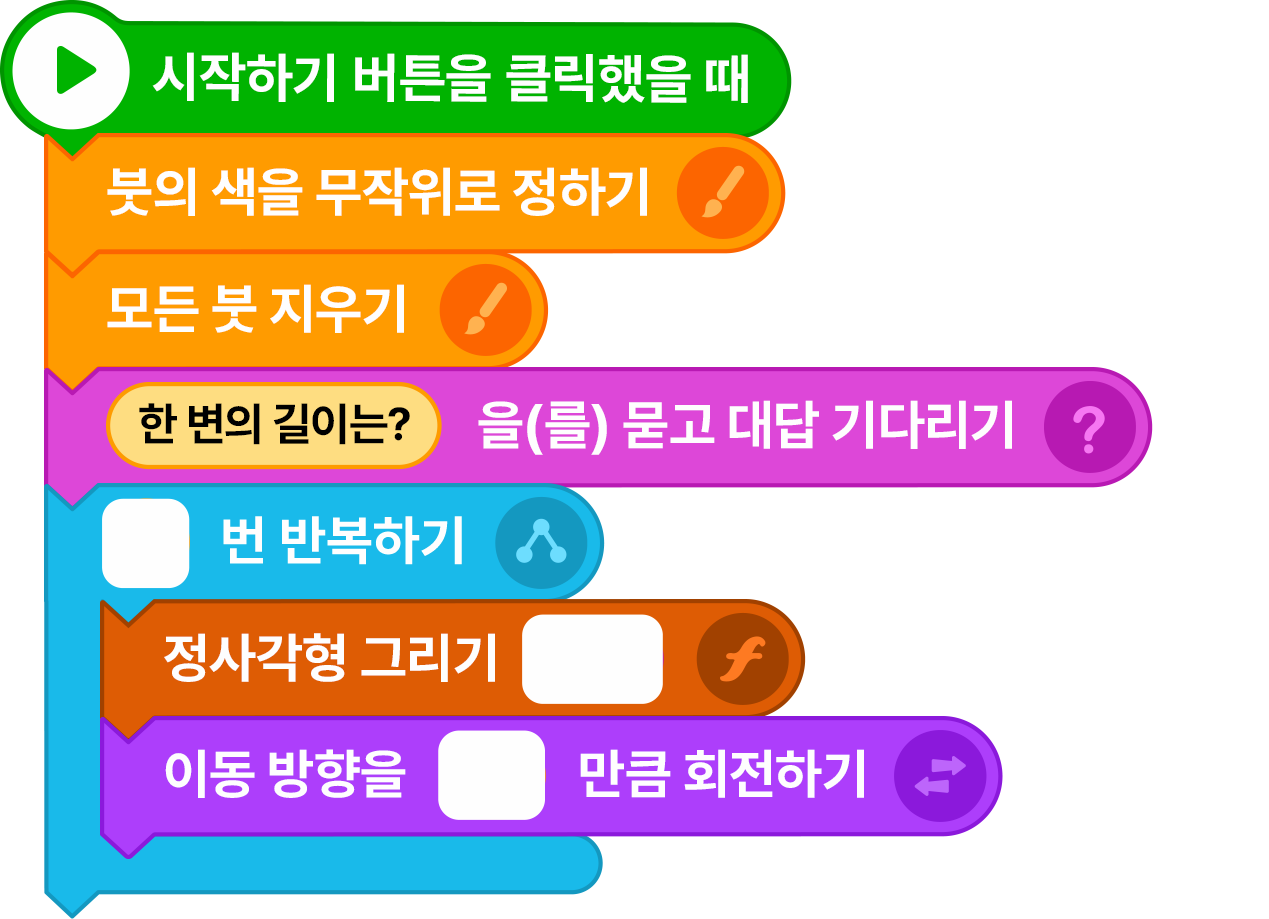
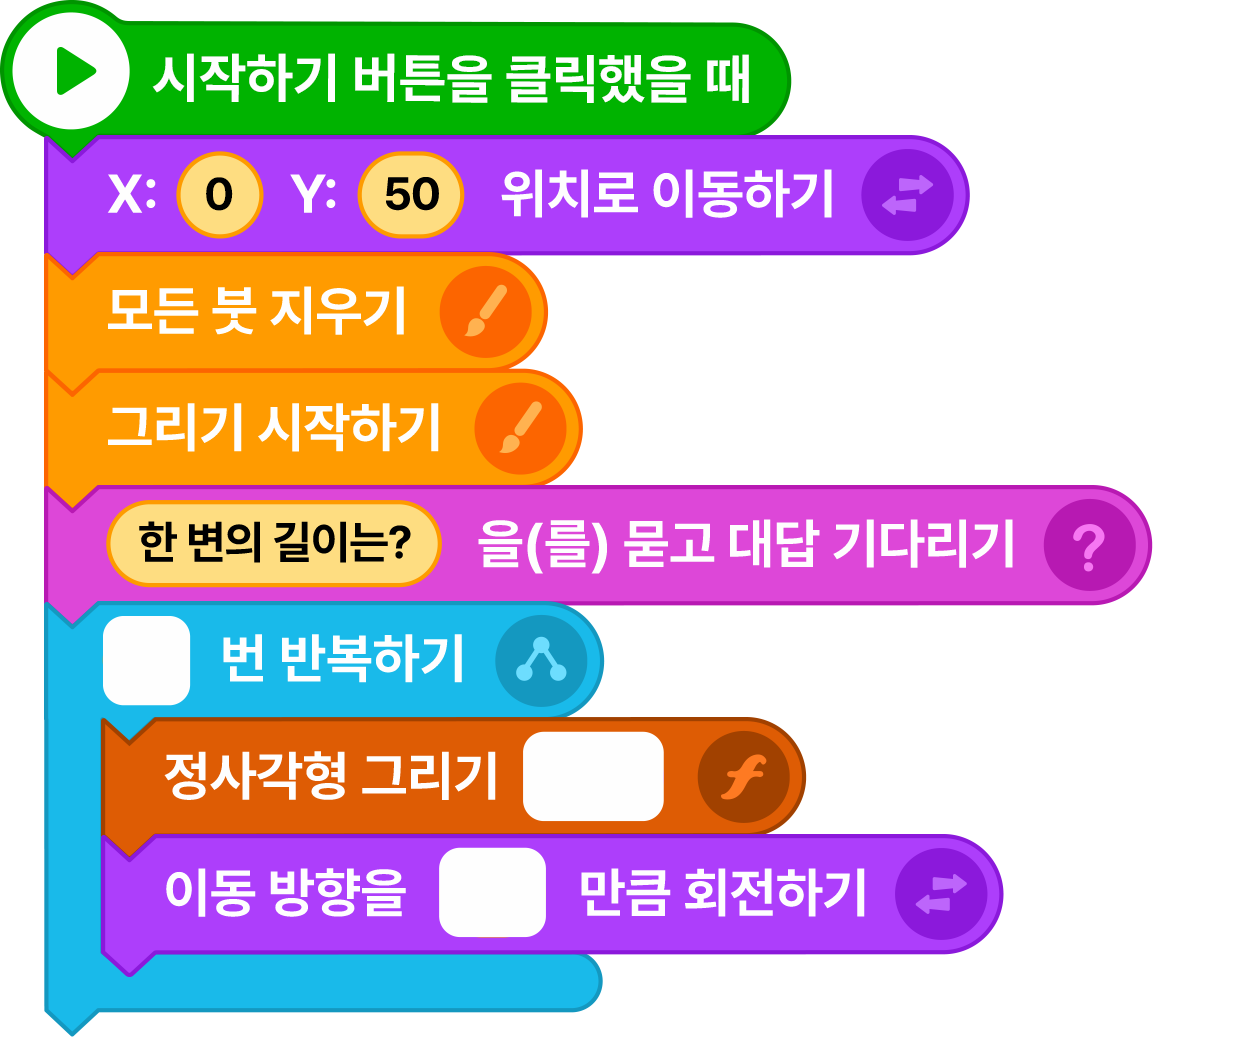
v1.1 이미지 수정

diff --git a/mid_325_01.html b/mid_325_01.html
@@ -36,9 +36,9 @@
             <h2 class="cm_title_02" tabindex="0"><span class="cm_num">2</span>알고리즘 설계</h2>
             <div class="cm_txt_in">
                 <ul class="cm_list_num">
-                    <li tabindex="0"><span>①</span>함수 정의하기 블록에서 함수 이름을 ‘정사각형 그리기‘라고 입력한다.</li>
-                    <li tabindex="0"><span>②</span>이동 방향을 90° 만큼 회전하기를 4번 반복하여 한 변의 길이가 90인 정사각형을 그리도록 작성하고, 함수를 저장한다.</li>
-                    <li tabindex="0"><span>③</span>연필을 클릭하면 연필 오브젝트의 방향을 45° 만큼 회전하며 ‘정사각형 그리기’ 함수를 3번 호출한다.</li>
+                    <li tabindex="0"><span>①</span>함수 정의하기 블록에서 함수 이름을 ‘사각형 그리기‘라고 입력한다.</li>
+                    <li tabindex="0"><span>②</span>이동 방향으로 90 만큼 이동하고, 방향을 90° 만큼 회전하기를 4번 반복하여 사각형을 그리도록 작성하고, 함수를 저장한다.</li>
+                    <li tabindex="0"><span>③</span>연필 오브젝트를 클릭하면 ‘사각형 그리기’ 함수를 호출하고, 이동 방향을 45° 만큼 회전하기를 3번 호출한다.</li>
                 </ul>
             </div>
           </div>
@@ -61,7 +61,7 @@
                     </tr>
                     <tr>
                         <th tabindex="0">함수</th>
-                        <td tabindex="0">정사각형 그리기</td>
+                        <td tabindex="0">사각형 그리기</td>
                     </tr>
                 </table>
             </div>
@@ -76,20 +76,20 @@
                     </colgroup>
                     <tr>
                         <th tabindex="0">
-                            <img src="img/object_square.svg" alt="'정사각형 그리기' 함수 블록">
+                            <img src="img/object_square.svg" alt="사각형 그리기' 함수 블록">
                             <div class="cm_pd_t5">함수 정의하기</div>
                         </th>
                         <td tabindex="0">
                             <div class="cm_img_warp">
-                                <img src="img/img_325_01_01.svg" alt="정사각형을 그리도록 조립된 블록을 함수로 정의한 빈칸이 포함된 엔트리 코드" class="cm_w83">
+                                <img src="img/img_325_01_01.svg" alt="사각형을 그리도록 조립된 블록을 함수로 정의한 빈칸이 포함된 엔트리 코드" class="cm_w83">
                             </div>
                         </td>
                     </tr>
                     <tr>
-                        <th tabindex="0"><img src="img/object_pencil.svg" alt="연필(2) 오브젝트" class="cm_h65"></th>
+                        <th tabindex="0"><img src="img/object_pencil.svg" alt="연필(2) 오브젝트" class="cm_h80"></th>
                         <td tabindex="0">
                             <div class="cm_img_warp">
-                                <img src="img/img_325_01_02.png" alt="오브젝트를 클릭했을 때, 모든 붓 지우기를 실행하고 '정사각형 그리기' 함수를 반복해서 호출하는 빈칸이 포함된 엔트리 코드" class="cm_w83">
+                                <img src="img/img_325_01_02.png" alt="오브젝트를 클릭했을 때, 모든 붓 지우기를 실행하고 '사각형 그리기' 함수를 반복해서 호출하는 빈칸이 포함된 엔트리 코드" class="cm_w83">
                             </div>
                         </td>
                     </tr>

diff --git a/mid_325_02.html b/mid_325_02.html
@@ -38,9 +38,8 @@
             <div class="cm_txt_in">
                 <ul class="cm_list_num">
                     <li tabindex="0"><span>①</span>함수 정의하기 블록에서 함수의 이름을 ‘사각형 그리기‘라고 입력하고, 매개 변수를 추가한다.</li>
-                    <li tabindex="0"><span>②</span>이동 방향을 90° 만큼 회전하기를 4번 반복하여 한 변의 길이가 매개 변수값 만큼인 사각형을 그리도록 작성하고, 함수를 저장한다.</li>
-                    <li tabindex="0"><span>③</span>연필을 클릭하면 연필 오브젝트의 방향을 45° 만큼 회전하며 ‘사각형 그리기’ 함수를 3번 호출한다.</li>
-                    <li tabindex="0"><span>④</span>연필을 클릭할 때마다 사각형 그림이 이어서 그려지도록 모든 붓 지우기는 프로그램을 시작했을 때 한 번만 실행한다.</li>
+                    <li tabindex="0"><span>②</span>이동 방향으로 매개 변숫값 만큼 이동하고, 방향을 90° 만큼 회전하기를 4번 반복하여 사각형을 그리도록 작성하고, 함수를 저장한다.</li>
+                    <li tabindex="0"><span>③</span>연필 오브젝트를 클릭하면 한 변의 길이를 입력받고, '사각형 그리기' 함수와 오브젝트의 이동 방향을 45° 만큼 회전하기를 3번 반복하여 호출한다.</li>
                 </ul>
             </div>
           </div>
@@ -76,19 +75,15 @@
                         </colgroup>
                     <tr>
                         <th tabindex="0">
-                            <img src="img/object_square_2.svg" alt="'정사각형 그리기' 함수 블록">
+                            <img src="img/object_square_2.svg" alt="'사각형 그리기' 함수 블록">
                             <div class="cm_pd_t5">함수 정의하기</div>
                         </th>
-                        <td tabindex="0"><img src="img/img_325_02_01.svg" alt="정사각형을 그리도록 조립된 블록을 매개 변수가 있는 함수로 정의한 빈칸이 포함된 엔트리 코드" class="cm_w83"></td>
+                        <td tabindex="0"><img src="img/img_325_02_01.svg" alt="사각형을 그리도록 조립된 블록을 매개 변수가 있는 함수로 정의한 빈칸이 포함된 엔트리 코드" class="cm_w83"></td>
                     </tr>
                     <tr>
                         <th tabindex="0"><img src="img/object_pencil.svg" alt="연필(2) 오브젝트" class="cm_h65"></th>
                         <td class="cm_img_block" tabindex="0">
-                            <div class="cm_img_warp">
-                                <img src="img/img_325_02_02.png" alt="오브젝트를 클릭했을 때, 한 변의 길이를 입력받아 대답을 '정사각형 그리기' 함수에 매개 변수로 넘겨주고 반복해서 호출하는 빈칸이 포함된 엔트리 코드" class="cm_w83">
-                                <img src="img/img_325_02_03.png" alt="시작하기 버튼을 클릭했을 때, 모든 붓 지우기 블록을 조립한 엔트리 코드" class="cm_w83">
-                            </div>
-                            
+                            <img src="img/img_325_02_02.png" alt="오브젝트를 클릭했을 때, 한 변의 길이를 입력받아 대답을 '사각형 그리기' 함수에 매개 변수로 넘겨주고 반복해서 호출하는 빈칸이 포함된 엔트리 코드" class="cm_w83">
                         </td>
                     </tr>
                 </table>

diff --git a/mid_325_05_c.html b/mid_325_05_c.html
@@ -121,7 +121,7 @@
                     </colgroup>
                     <tr>
                       <th tabindex="0">오브젝트</th>
-                      <td tabindex="0"><img src="img/object_teacher.png" alt="선생님(3) 오브젝트" class="cm_h50"></td>
+                      <td tabindex="0"><img src="img/object_teacher.png" alt="선생님(3) 오브젝트" class="cm_h80"></td>
                     </tr>
                     <tr>
                         <th tabindex="0">변수</th>
@@ -132,16 +132,20 @@
                         <td tabindex="0">업다운</td>
                     </tr>
                     <tr>
-                        <th tabindex="0"><img src="img/object_updown.svg" alt="'업다운' 함수 블록" class="cm_h65">업다운</th>
-                        <td class="cm_img_block" tabindex="0">
-                            <img src="img/img_325_05_03_c.svg" alt="'업다운' 함수 정의하기 블록으로 숫자를 입력받고 입력받은 수가 정답과 같은지 비교하여 같으면 '정답입니다'를 출력하고 결괏값 1을 반환, 입력값이 정답보다 작으면 'UP', 크면 'Down' 메세지를 출력하고 결괏값으로 0을 반환하는 함수를 정의한 빈칸이 포함된 엔트리 코드">
+                        <th tabindex="0"><img src="img/object_updown.svg" alt="'업다운' 함수 블록"></th>
+                        <td tabindex="0">
+                            <div class="cm_img_warp">
+                                <img src="img/img_325_05_03_c.png" alt="'업다운' 함수 정의하기 블록으로 숫자를 입력받고 입력받은 수가 정답과 같은지 비교하여 같으면 '정답입니다'를 출력하고 결괏값 1을 반환, 입력값이 정답보다 작으면 'UP', 크면 'Down' 메세지를 출력하고 결괏값으로 0을 반환하는 함수를 정의한 빈칸이 포함된 엔트리 코드">
+                            </div>
                         </td>
                     </tr>
                     <tr>
                         <th tabindex="0">
-                            <img src="img/object_teacher.png" alt="선생님(3) 오브젝트">
+                            <img src="img/object_teacher.png" alt="선생님(3) 오브젝트" class="cm_h80">
                         </th>
-                        <td tabindex="0"><img src="img/img_325_05_02.svg" alt="시작하기 버튼을 클릭했을 때, 1부터 50사의 숫자 중에 하나를 정답값으로 정하고, 사용자로부터 숫자를 입력받아 정답 숫자를 맞출때 까지 반복하여 '업다운' 함수를 호출하여 정답을 맞추면 초시계 값을 출력하고 반복을 종료하는 엔트리 코드"></td>
+                        <td tabindex="0">
+                            <img src="img/img_325_05_02.svg" alt="시작하기 버튼을 클릭했을 때, 1부터 50사의 숫자 중에 하나를 정답값으로 정하고, 사용자로부터 숫자를 입력받아 정답 숫자를 맞출때 까지 반복하여 '업다운' 함수를 호출하여 정답을 맞추면 초시계 값을 출력하고 반복을 종료하는 엔트리 코드">
+                        </td>
                     </tr>
                 </table>
             </div>

diff --git a/mid_325_05_b.html b/mid_325_05_b.html
@@ -121,7 +121,7 @@
                     </colgroup>
                     <tr>
                       <th tabindex="0">오브젝트</th>
-                      <td tabindex="0"><img src="img/object_teacher.png" alt="선생님(3) 오브젝트" class="cm_h50"></td>
+                      <td tabindex="0"><img src="img/object_teacher.png" alt="선생님(3) 오브젝트" class="cm_h80"></td>
                     </tr>
                     <tr>
                         <th tabindex="0">변수</th>
@@ -132,14 +132,16 @@
                         <td tabindex="0">업다운</td>
                     </tr>
                     <tr>
-                        <th tabindex="0"><img src="img/object_updown.svg" alt="'업다운' 함수 블록" class="cm_h65">업다운</th>
-                        <td class="cm_img_block" tabindex="0">
-                            <img src="img/img_325_05_03_b.svg" alt="'업다운' 함수 정의하기 블록으로 숫자를 입력받고 입력받은 수가 정답과 같은지 비교하여 같으면 '정답입니다'를 출력하고 결괏값 1을 반환, 입력값이 정답보다 작으면 'UP', 크면 'Down' 메세지를 출력하고 결괏값으로 0을 반환하는 함수를 정의한 빈칸이 포함된 엔트리 코드">
+                        <th tabindex="0"><img src="img/object_updown.svg" alt="'업다운' 함수 블록"></th>
+                        <td tabindex="0">
+                            <div class="cm_img_warp">
+                                <img src="img/img_325_05_03_b.png" alt="'업다운' 함수 정의하기 블록으로 숫자를 입력받고 입력받은 수가 정답과 같은지 비교하여 같으면 '정답입니다'를 출력하고 결괏값 1을 반환, 입력값이 정답보다 작으면 'UP', 크면 'Down' 메세지를 출력하고 결괏값으로 0을 반환하는 함수를 정의한 빈칸이 포함된 엔트리 코드">
+                            </div>
                         </td>
                     </tr>
                     <tr>
                         <th tabindex="0">
-                            <img src="img/object_teacher.png" alt="선생님(3) 오브젝트">
+                            <img src="img/object_teacher.png" alt="선생님(3) 오브젝트" class="cm_h80">
                         </th>
                         <td tabindex="0"><img src="img/img_325_05_02.svg" alt="시작하기 버튼을 클릭했을 때, 1부터 50사의 숫자 중에 하나를 정답값으로 정하고, 사용자로부터 숫자를 입력받아 정답 숫자를 맞출때 까지 반복하여 '업다운' 함수를 호출하여 정답을 맞추면 초시계 값을 출력하고 반복을 종료하는 엔트리 코드"></td>
                     </tr>

diff --git a/mid_325_05_a.html b/mid_325_05_a.html
@@ -121,7 +121,7 @@
                     </colgroup>
                     <tr>
                       <th tabindex="0">오브젝트</th>
-                      <td tabindex="0"><img src="img/object_teacher.png" alt="선생님(3) 오브젝트" class="cm_h65"></td>
+                      <td tabindex="0"><img src="img/object_teacher.png" alt="선생님(3) 오브젝트" class="cm_h80"></td>
                     </tr>
                     <tr>
                         <th tabindex="0">변수</th>
@@ -133,8 +133,10 @@
                     </tr>
                     <tr>
                         <th tabindex="0"><img src="img/object_updown.svg" alt="'업다운' 함수 블록"></th>
-                        <td class="cm_img_block" tabindex="0">
-                            <img src="img/img_325_05_03_a.svg" alt="'업다운' 함수 정의하기 블록으로 숫자를 입력받고 입력받은 수가 정답과 같은지 비교하여 같으면 '정답입니다'를 출력하고 결괏값 1을 반환, 입력값이 정답보다 작으면 'UP', 크면 'Down' 메세지를 출력하고 결괏값으로 0을 반환하는 함수를 정의한 빈칸이 포함된 엔트리 코드">
+                        <td tabindex="0">
+                            <div class="cm_img_warp">
+                                <img src="img/img_325_05_03_a.png" alt="'업다운' 함수 정의하기 블록으로 숫자를 입력받고 입력받은 수가 정답과 같은지 비교하여 같으면 '정답입니다'를 출력하고 결괏값 1을 반환, 입력값이 정답보다 작으면 'UP', 크면 'Down' 메세지를 출력하고 결괏값으로 0을 반환하는 함수를 정의한 빈칸이 포함된 엔트리 코드">
+                            </div>
                         </td>
                     </tr>    
                     <tr>
